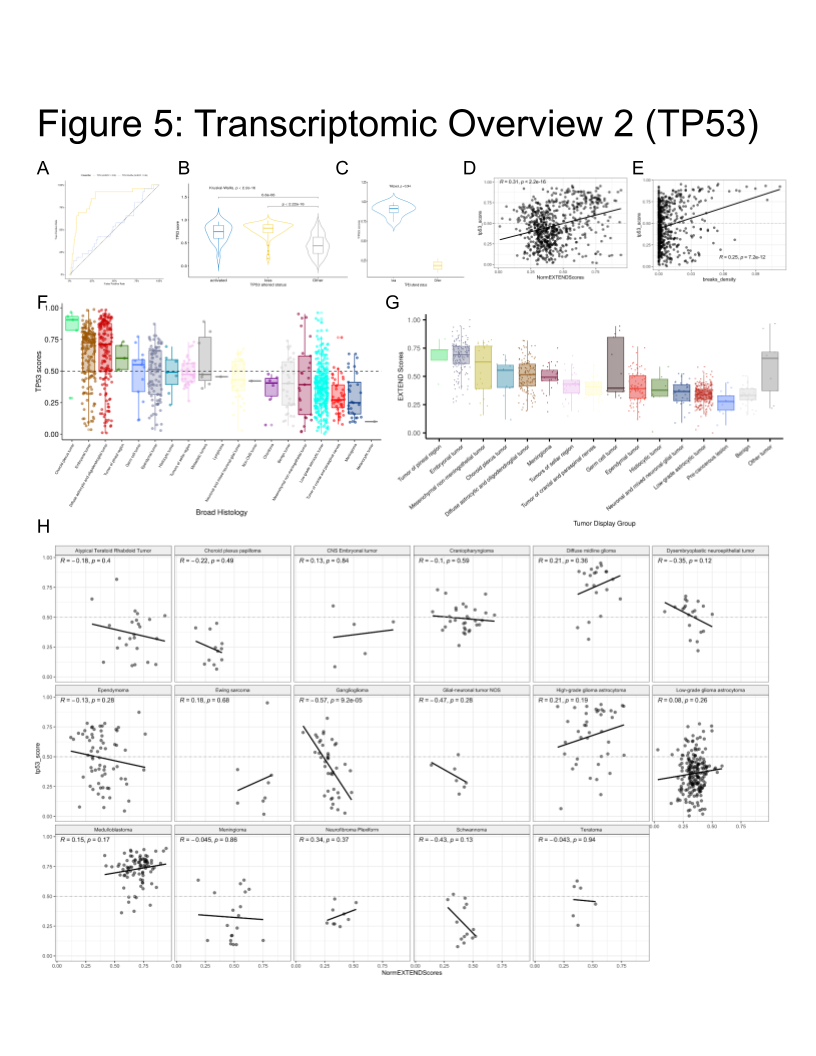
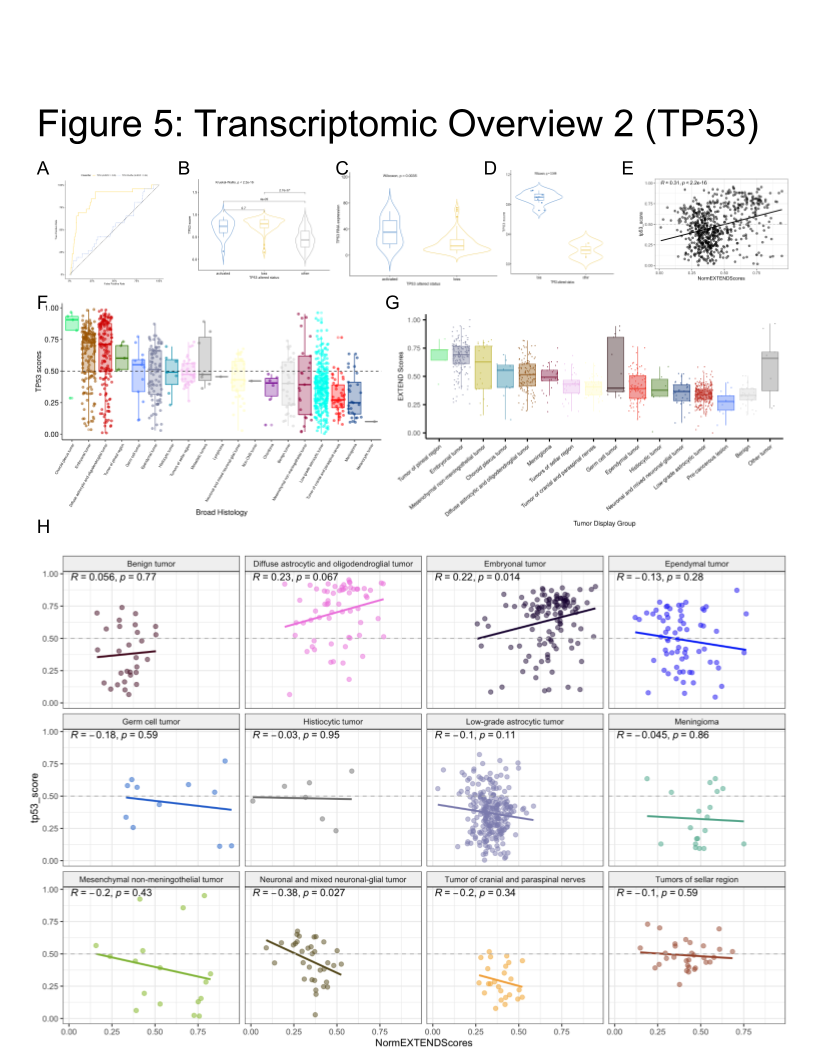
update figures add figure 5 TP53 results

diff --git a/content/04.results.md b/content/04.results.md
@@ -125,6 +125,7 @@ We observed 8% (16/195) of tumors to be _C11orf95::RELA_ fusion positive ependym
 <!-- TODO: update NF2 cancer types -->
 Multiple cancer types contained somatic mutations or fusions in _NF2_ (7%, comprised of ependymomas, desmoplastic infantile astrocytoma and ganglioglioma, …, and …) and _BRAF_ (4%), in addition to rare ependymoma fusions (< 4% of all embryonal tumors) in _YAP1_, _KRAS_, _ERBB4_, and _MYB_. 
 The majority of dysembryoplastic tumors harbored alterations in _FGFR1_, including _FGFR1::TACC1_ fusions.
+<!-- TODO: update numbers/ add info for supplemental oncoprint -->
 
 ![**Figure 2. Mutational landscape of PBTA tumors.**Shown are frequencies of canonical somatic gene mutations, CNVs, fusions, and TMB (top bar plot) for the top 20 genes mutated across primary tumors within the OpenPBTA dataset. A, Low-grade astrocytic tumors (N = 227): low-grade glioma astrocytoma (N = 187), ganglioglioma (N = 35), subependymal giant cell astrocytoma (N = 2), diffuse fibrillary astrocytoma (N = 1), pilocytic astrocytoma (N = 1), and pleomorphic xanthoastrocytoma (N = 1); B, Embryonal tumors (N = 131): medulloblastomas (N = 97), atypical teratoid rhabdoid tumors (N = 24), embryonal tumors with multilayer rosettes (N = 2), other CNS embryonal tumors (N = 6), ganglioneuroblastoma (N = 1), and CNS neuroblastoma (N = 1); C, Diffuse astrocytic and oligodendroglial tumors (N = 61): diffuse midline gliomas (N = 34) and non-midline high-grade gliomas (N = 26), oligodendroglioma (N = 1); D, Other CNS tumors (N = 195): ependymomas (N = 60), dysembryoplastic neuroepithelial tumors (N = 19), meningiomas (N = 17), schwannoma (N = 11), neurofibroma plexiform (N = 7), other CNS (N < 5 each).Patient sex (`germline_sex_estimate`) and tumor histology (`cancer_group`) are displayed as annotations at the bottom of each plot. Only samples with mutations in the listed genes are shown.](https://github.com/AlexsLemonade/OpenPBTA-analysis/blob/master/figures/pngs/primary_only_oncoprint_landscape.png){#fig:Fig2}
 
@@ -174,12 +175,27 @@ We performed geneset variant analysis (GSVA) for Hallmark cancer gene sets, demo
 
 <!-- TODO: Add immune deconvolution figure 4C information. -->
 
-#### Telomerase activity 
+![**Figure 4. Transcriptomic overview** A, First two dimensions from UMAP of sample transcriptome data.
+Points are colored by `cancer_group` of the samples they represent. B, Heatmap of GSVA scores for Hallmark gene sets with significant differences, with samples ordered by `cancer_group`. C, <!-- TODO: Add description about immune deconvolution image we use as main. -->](images/main/Figure4.png){#fig:Fig4}
+
+
+#### Prediction of _TP53_ oncogenicity and telomerase activity
+To understand the _TP53_ phenotype in each tumor, we ran a classifier previously trained on TCGA gene expression data[@doi:10.1016/j.celrep.2018.03.076] to infer _TP53_ inactivation status.
+Using high-confidence SNVs, CNVs, SVs, and fusions in _TP53_ as true positive alterations, we achieved a high accuracy (AUROC = 0.85) compared to randomly shuffled _TP53_ scores (**Figure {@fig:Fig5}A**) in the stranded RNA-Seq dataset. 
+The classifier did not perform well on the poly-A sample subset (**Figure {@fig:FigS5}A-B**), likely due to the low number of poly-A samples in our dataset (N = 58), as we previously reported high accuracy of this classifier on another poly-A dataset [@doi:10.1016/j.celrep.2019.09.071].
+We annotated _TP53_ alterations as "activated" if samples harbored one of p.R273C or p.R248W mutations [@doi:10.1038/ng0593-42], "loss" if the patient had a Li Fraumeni Syndrome (LFS) predisposition diagnosis or if any other SNV, CNV, SV, or fusion fell within a functional domain.
+If we did not detect a somatic _TP53_ mutation with the data available, we annotated the tumor as "other".
+Surprisingly, we observed that samples annotated as either "activated" or "loss" had significantly higher _TP53_ scores than those annotated as "other" (**Figure {@fig:Fig5}B**, p<sub>adj</sub>loss vs. other < 2e-16, p<sub>adj</sub> activated vs. other = 4.0e-5), suggesting that the classifier detects an oncogenic phenotype of _TP53_ rather than solely inactivation.
+Moreover, tumors with "activating" _TP53_ mutations had evidence of higher _TP53_ expression than those with _TP53_ "loss" mutations (Wilcoxon p = 3.5e-3, **Figure {@fig:Fig5}B**.
+To further validate the classifier's accuracy, we plotted _TP53_ scores for patients with LFS **Figure {@fig:Fig5}C**, hypothesizing all of these tumors would have high scores (>=.
+Indeed, we observed significantly higher scores (Wilcoxon p = 4.4e-2) in LFS tumors for which we detected high-confidence _TP53_ somatic alterations. 
+Of note, we were unable to detect somatic _TP53_ mutations in two LFS patient tumors, annotated as "other" in **Figure {@fig:Fig5}C**.
+We confirmed the LFS diagnosis from pathology reports and found each to have a germline variant in _TP53_, however, the tumor purity of these samples was low (16% and 37%), suggesting the classifier might require a certain level of tumor purity for high accuracy.
+
 
 We used gene expression data to predict telomerase activity using EXpression-based Telomerase ENzymatic activity Detection (EXTEND) [@doi:10.1038/s41467-020-20474-9] as a surrogate measure of malignant potential [@doi:10.1038/s41467-020-20474-9; 10.1093/carcin/bgp268].
 EXTEND scores significantly correlated with _TERT_ and _TERC_ expression (**Figure {@fig:FigS5}D-E**).  
 We found aggressive tumors such as CNS lymphoma, ETMR, ATRT, DMG, and HGG had high EXTEND scores (**Figure {@fig:Fig5}G**), while benign lesions such as teratomas, dysplasias, and hemangioblastomas had the lowest scores (**Table S3**). 
 <!-- TODO: Add link to S3 once generated. -->
 
-![**Figure 4. Transcriptomic overview** A, First two dimensions from UMAP of sample transcriptome data.
-Points are colored by `cancer_group` of the samples they represent. B, Heatmap of GSVA scores for Hallmark gene sets with significant differences, with samples ordered by `cancer_group`. C, <!-- TODO: Add description about immune deconvolution image we use as main. -->](images/main/Figure4.png){#fig:Fig4}
+
